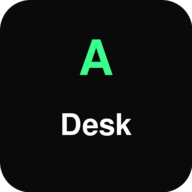
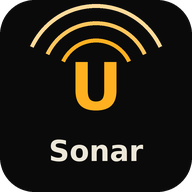
feat: 이름 변경 AlphaDesk -> Undercurrent Sonar (마크 U-Sonar)
'알파(초과수익)'가 매수 신호처럼 읽혀, 테마의 물밑 흐름을 세 축으로 따로 보는 리서치 도구라는 성격에 맞게
바꾼다. 내비게이션 로고·앱 아이콘(소나 파동 + U)·PWA 단축 이름은 U-Sonar, 페이지 제목·매니페스트 이름·
가이드 본문·텔레그램 요약은 Undercurrent Sonar. 설명 문구도 예전 'S&P 500 스마트머니'에서 현재 성격으로.
사이트 주소(RADAR_URL, README)는 새 도메인이 정해지면 따로 바꾼다. localStorage 키(alphaDesk_market)는
저장된 시장 선택이 초기화되지 않게 그대로 둔다.

Claude-Session: https://claude.ai/code/session_01GdDxmQEVDEsz7gT1qdfrTH

diff --git a/frontend/app/guide/page.tsx b/frontend/app/guide/page.tsx
@@ -38,7 +38,7 @@ export default function GuidePage() {
       {/* Header */}
       <div>
         <div className="flex items-center gap-3 mb-1">
-          <h1 className="text-base font-bold text-white">AlphaDesk 사용 설명서</h1>
+          <h1 className="text-base font-bold text-white">Undercurrent Sonar 사용 설명서</h1>
           <Badge text="GUIDE" color="#ffb020" />
         </div>
         <p className="text-[12px]" style={{ color: "var(--text-muted)" }}>
@@ -67,7 +67,7 @@ export default function GuidePage() {
       <Card>
         <SectionTitle>📌 처음이라면 — 4단계로 좁혀가기</SectionTitle>
         <p className="text-[12px] mb-4 leading-relaxed" style={{ color: "var(--text-muted)" }}>
-          AlphaDesk는 <span className="text-white font-semibold">"매수하라"고 말해주는 도구가 아닙니다.</span> 대신
+          Undercurrent Sonar는 <span className="text-white font-semibold">"매수하라"고 말해주는 도구가 아닙니다.</span> 대신
           "지금 뭘 눈여겨봐야 하는가"를 시장 전체 → 업종 → 테마 → 개별 종목 순서로 좁혀가도록 만들어졌습니다.
           투자가 처음이라면 아래 4단계를 순서대로 따라가 보세요. 각 단계는 서로 다른 화면(탭)입니다.
         </p>
@@ -117,7 +117,7 @@ export default function GuidePage() {
           <p className="text-[12px] font-bold" style={{ color: "#ffb020" }}>💡 가장 중요한 규칙 하나만 기억한다면</p>
           <p className="text-[13px] font-bold text-white mt-1">보유 이유가 사라졌는지 정기적으로 점검하고, 그렇다면 매도한다</p>
           <p className="text-[12px] mt-1" style={{ color: "var(--text-muted)" }}>
-            AlphaDesk는 1~3년 펀더멘털 보유를 기본 전제로 합니다 — 단기 가격 변동에 따른 자동 손절은 없고,
+            Undercurrent Sonar는 1~3년 펀더멘털 보유를 기본 전제로 합니다 — 단기 가격 변동에 따른 자동 손절은 없고,
             매수·매도 실행이나 보유 종목 추적 기능도 제공하지 않습니다. 재무 건전성 필터를 통과한 후보를
             정기적으로 다시 훑어보고, 애초에 보유 이유였던 스토리·촉매가 사라졌는지 본인이 직접 점검하세요.
           </p>
@@ -379,7 +379,7 @@ export default function GuidePage() {
       </Card>
 
       <p className="text-[12px] text-center pb-4" style={{ color: "#423e33" }}>
-        AlphaDesk는 투자 참고 도구입니다. 최종 투자 판단과 책임은 항상 본인에게 있습니다.
+        Undercurrent Sonar는 투자 참고 도구입니다. 최종 투자 판단과 책임은 항상 본인에게 있습니다.
       </p>
     </div>
   );

diff --git a/frontend/src/components/Navigation.tsx b/frontend/src/components/Navigation.tsx
@@ -70,8 +70,13 @@ function SidebarInner({
         className="flex h-20 shrink-0 items-center border-b px-5"
         style={{ borderColor: "var(--border)" }}
       >
-        <span className="text-2xl font-black tracking-tight" style={{ color: "#ffb020" }}>
-          Alpha<span style={{ color: "#ece7d8" }}>Desk</span>
+        <span className="flex flex-col leading-none" title="Undercurrent Sonar">
+          <span className="text-2xl font-black tracking-tight" style={{ color: "#ffb020" }}>
+            U-<span style={{ color: "#ece7d8" }}>Sonar</span>
+          </span>
+          <span className="mt-1 text-[10px] font-semibold tracking-[0.18em]" style={{ color: "#726b58" }}>
+            UNDERCURRENT SONAR
+          </span>
         </span>
         {onClose && (
           <button

diff --git a/frontend/app/layout.tsx b/frontend/app/layout.tsx
@@ -10,13 +10,13 @@ const inter = Inter({ subsets: ["latin"], variable: "--font-inter", display: "sw
 const notoKr = Noto_Sans_KR({ subsets: ["latin"], variable: "--font-noto-kr", weight: ["400", "500", "700", "900"], display: "swap" });
 
 export const metadata: Metadata = {
-  title: "AlphaDesk",
-  description: "S&P 500 스마트머니 분석 대시보드",
+  title: "Undercurrent Sonar",
+  description: "테마별 물밑 흐름(뉴스·실적·주가)을 따로 보는 주간 리서치 도구",
   manifest: "/manifest.webmanifest",
   appleWebApp: {
     capable: true,
     statusBarStyle: "black-translucent",
-    title: "AlphaDesk",
+    title: "U-Sonar",
   },
   icons: {
     apple: "/icon-192.png",

diff --git a/frontend/app/manifest.ts b/frontend/app/manifest.ts
@@ -2,9 +2,9 @@ import type { MetadataRoute } from "next";
 
 export default function manifest(): MetadataRoute.Manifest {
   return {
-    name: "AlphaDesk",
-    short_name: "AlphaDesk",
-    description: "S&P 500 스마트머니 분석 대시보드",
+    name: "Undercurrent Sonar",
+    short_name: "U-Sonar",
+    description: "테마별 물밑 흐름(뉴스·실적·주가)을 따로 보는 주간 리서치 도구",
     start_url: "/",
     display: "standalone",
     background_color: "#0a0a0a",

diff --git a/frontend/app/guide/detail/page.tsx b/frontend/app/guide/detail/page.tsx
@@ -573,7 +573,7 @@ export default function GuideDetailPage() {
       <Accordion sections={SECTIONS} />
 
       <p className="text-[12px] text-center pb-4" style={{ color: "#423e33" }}>
-        AlphaDesk는 투자 참고 도구입니다. 최종 투자 판단과 책임은 항상 본인에게 있습니다.
+        Undercurrent Sonar는 투자 참고 도구입니다. 최종 투자 판단과 책임은 항상 본인에게 있습니다.
       </p>
     </div>
   );

diff --git a/frontend/app/guide/playbook/page.tsx b/frontend/app/guide/playbook/page.tsx
@@ -390,7 +390,7 @@ export default function PlaybookPage() {
       </Card>
 
       <p className="text-[12px] text-center pb-4" style={{ color: "#423e33" }}>
-        AlphaDesk는 투자 참고 도구입니다. 최종 투자 판단과 책임은 항상 본인에게 있습니다.
+        Undercurrent Sonar는 투자 참고 도구입니다. 최종 투자 판단과 책임은 항상 본인에게 있습니다.
       </p>
     </div>
   );

diff --git a/scripts/send_telegram_digest.py b/scripts/send_telegram_digest.py
@@ -177,7 +177,7 @@ def main() -> None:
     if not should_send(signature):
         return
 
-    lines = [f"<b>📊 AlphaDesk 주간 요약 — {today}</b>", ""]
+    lines = [f"<b>📊 Undercurrent Sonar 주간 요약 — {today}</b>", ""]
 
     if cross_hits:
         lines += ["", "<b>⭐ 워치리스트 ↔ 상위 종목 교차</b>"] + cross_hits

diff --git a/README.md b/README.md
@@ -1,4 +1,7 @@
-# AlphaDesk
+# Undercurrent Sonar (U-Sonar)
+
+> 2026-10-04 AlphaDesk에서 이름을 바꿨다. "알파(초과수익)"가 매수 신호처럼 읽혀, 테마의 물밑 흐름을 따로 보는
+> 리서치 도구라는 성격에 맞게 바꿈. 마크는 U-Sonar, 긴 제목은 Undercurrent Sonar.
 
 개인용 미국(S&P 500)·한국(KOSPI) 주식 투자 의사결정 대시보드. 매크로 시장 체제 판단 →
 종목 스크리닝 → AI 서사 분석 → 매수 체크리스트 → 포트폴리오/리스크 추적까지 하나의
